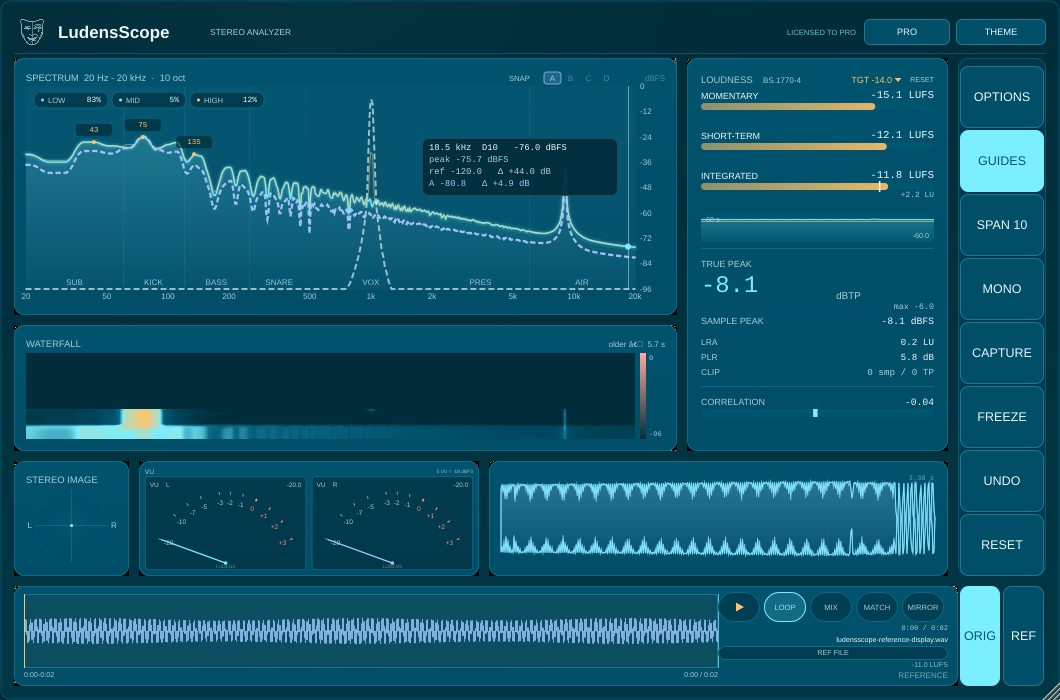
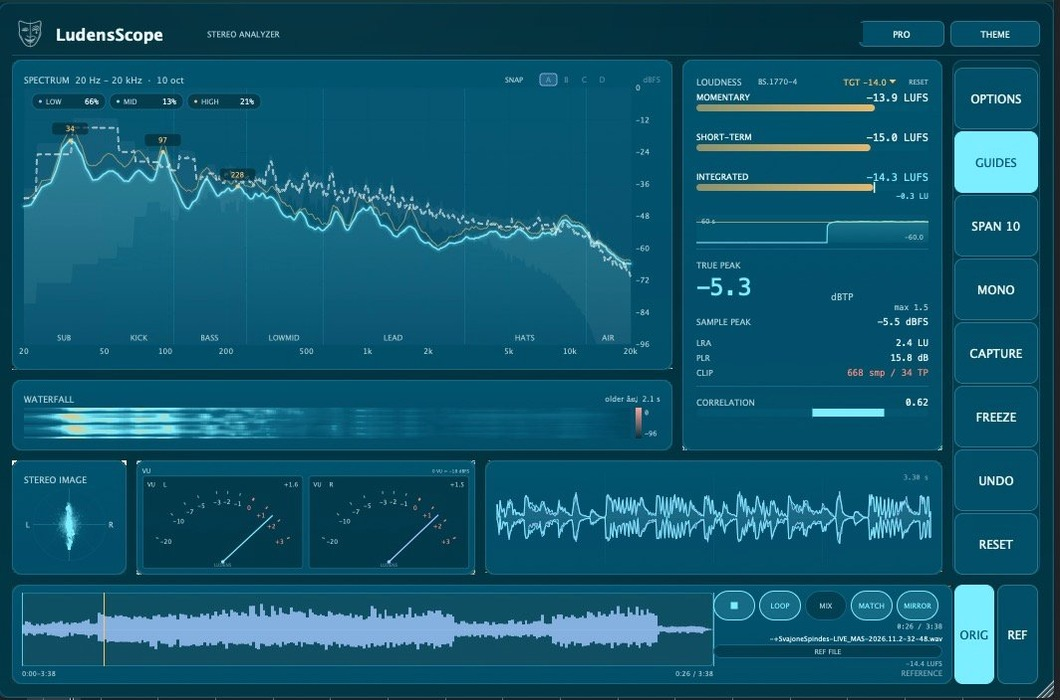
site: add Google Search Console verification file

Changed region(s): [[0.0, 0.0, 1.0, 1.0], [0.7783, 0.42, 0.8094, 0.45], [0.3425, 0.69, 0.3736, 0.72]]

diff --git a/site/index.html b/site/index.html
@@ -7,32 +7,13 @@
   <meta property="og:title" content="LudensScope — увидеть то, что слышишь">
   <meta property="og:description" content="Бесплатный Lite, PRO 19 € (было 29 €): спектр, BS.1770, референс A–D, gain staging и VU.">
   <meta property="og:type" content="website">
-  <meta property="og:image" content="https://ludensscope.pages.dev/assets/og-ru.png">
-  <meta property="og:image:width" content="1200">
-  <meta property="og:image:height" content="630">
+  <meta property="og:image" content="https://ludensscope.pages.dev/assets/ui-preview.jpg">
   <meta property="og:url" content="https://ludensscope.pages.dev/">
   <meta property="og:site_name" content="LudensScope">
   <meta property="og:locale" content="ru_RU">
   <meta property="og:locale:alternate" content="en_US">
   <meta name="twitter:card" content="summary_large_image">
-  <meta name="twitter:image" content="https://ludensscope.pages.dev/assets/og-ru.png">
   <meta name="theme-color" content="#01141b">
-<script type="application/ld+json">
-{
-  "@context": "https://schema.org",
-  "@type": "SoftwareApplication",
-  "name": "LudensScope",
-  "description": "Стерео-анализатор VST3, AU, CLAP и AAX: спектр, громкость BS.1770, референс A–D, gain staging и стрелочный VU. Lite бесплатно, PRO за 19 €.",
-  "applicationCategory": "MultimediaApplication",
-  "operatingSystem": "Windows, macOS, Linux",
-  "softwareVersion": "1.0.11",
-  "url": "https://ludensscope.pages.dev/",
-  "offers": [
-    { "@type": "Offer", "name": "Lite", "price": "0", "priceCurrency": "EUR", "availability": "https://schema.org/InStock" },
-    { "@type": "Offer", "name": "PRO", "price": "19", "priceCurrency": "EUR", "url": "https://www.paypal.com/ncp/payment/9LQYYZMR7TW7G", "availability": "https://schema.org/InStock" }
-  ]
-}
-</script>
   <link rel="canonical" href="https://ludensscope.pages.dev/">
   <link rel="icon" type="image/png" href="assets/logo.png">
   <link rel="stylesheet" href="styles.css">
@@ -42,7 +23,7 @@
 <link rel="alternate" hreflang="x-default" href="https://ludensscope.pages.dev/">
 </head>
 <body>
-<a class="skip" href="#main">Перейти к содержимому</a>
+<a class="skip" href="#main">Skip to content</a>
 
 <header class="site-header" id="header">
   <div class="wrap header-inner">
@@ -51,7 +32,7 @@
       <span>LudensScope</span>
     </a>
 
-    <nav class="nav" id="nav" aria-label="Основная навигация">
+    <nav class="nav" id="nav" aria-label="Main">
       <a href="#features">Возможности</a>
       <a href="#reference">Референс</a>
       <a href="#gain">Gain staging</a>
@@ -68,7 +49,7 @@
       </a>
       <a class="btn btn-ghost header-cta" href="#download">Скачать Lite</a>
       <a class="btn btn-primary header-cta" href="#pro">PRO — 19 €</a>
-      <button class="menu" id="menu-toggle" type="button" aria-label="Меню" aria-expanded="false" aria-controls="nav">
+      <button class="menu" id="menu-toggle" type="button" aria-label="Menu" aria-expanded="false" aria-controls="nav">
         <span></span><span></span><span></span>
       </button>
     </div>
@@ -95,10 +76,7 @@
             <span class="dot"></span><span class="dot"></span><span class="dot"></span>
             <em>LudensScope <span class="js-version">v1.0.11</span></em>
           </div>
-          <video autoplay muted loop playsinline preload="metadata" poster="assets/ui-preview.jpg" width="848" height="560" aria-label="Анимированный превью интерфейса LudensScope: смена семи тем">
-            <source src="assets/preview-themes.webm" type="video/webm">
-            <source src="assets/preview-themes.mp4" type="video/mp4">
-          </video>
+          <img src="assets/ui-preview.jpg" alt="LudensScope interface: spectrum, loudness, reference, VU meter and oscilloscope" width="1060" height="700">
         </div>
         <div class="glow" aria-hidden="true"></div>
       </div>
@@ -191,20 +169,20 @@
           <li>MIRROR / FREE</li>
         </ul>
       </div>
-      <div class="shot reveal"><img src="assets/spectrum.png" alt="Спектр LudensScope: полосы LOW/MID/HIGH, шкала dBFS и подписи частот" width="660" height="311"></div>
+      <div class="shot reveal"><img src="assets/spectrum.png" alt="Спектр LudensScope: полосы LOW/MID/HIGH, шкала dBFS и подписи частот" ></div>
     </div>
   </section>
 
   <section class="section split reverse" id="gain">
     <div class="wrap split-grid">
-      <div class="shot vu reveal"><img src="assets/vu.png" alt="Стерео VU-метр LudensScope с указателями L и R" width="350" height="145"></div>
+      <div class="shot vu reveal"><img src="assets/vu.png" alt="Стерео VU-метр LudensScope с указателями L и R" ></div>
       <div class="split-copy">
         <p class="eyebrow reveal">Gain staging</p>
         <h2 class="reveal">Выставьте уровень до микса.</h2>
         <p class="section-lead reveal">Опорные линии в спектре и осциллографе, 0 VU на −18 dBFS (EBU) или −20 dBFS (SMPTE) и стрелочный VU со шкалой −20…+3.</p>
         <ul class="ticks reveal">
           <li>0 VU = +4 dBu = 1.228 В RMS</li>
-          <li>Баллистика ~500 мс, сглаживание 40/80/150 мс (по умолчанию 80 мс)</li>
+          <li>Баллистика ~500 мс, сглаживание 40/80/150 мс</li>
           <li>Шкала −20…+3 VU</li>
         </ul>
       </div>
@@ -273,9 +251,9 @@
   <div class="wrap footer-inner">
     <div class="footer-brand">
       <a class="brand" href="#top"><img src="assets/logo.png" alt="" width="26" height="26"><span>LudensScope</span></a>
-      <p>Сделано на JUCE. VST3, AU, CLAP и AAX. Lite бесплатно, PRO 19 €. Без телеметрии.</p>
+      <p>Сделано на JUCE. VST3 и AU. Lite бесплатно, PRO 19 €. Без телеметрии.</p>
     </div>
-    <nav class="footer-nav" aria-label="Ссылки">
+    <nav class="footer-nav" aria-label="Links">
       <a href="https://github.com/ltillegal/ludensscope" target="_blank" rel="noopener">GitHub</a>
       <a href="https://github.com/ltillegal/ludensscope/releases" target="_blank" rel="noopener">Релизы</a>
       <a href="https://komistore.app/" target="_blank" rel="noopener">Komi Store</a>

diff --git a/site/en/index.html b/site/en/index.html
@@ -5,34 +5,15 @@
   <title>LudensScope — stereo analyser. Free Lite, PRO €19</title>
   <meta name="description" content="A free stereo analyzer for VST3 and AU: spectrum, BS.1770 loudness, four reference slots, gain staging and a standard VU meter.">
   <meta property="og:title" content="LudensScope — see what you hear">
-  <meta property="og:description" content="A free stereo analyzer for VST3 and AU: spectrum, BS.1770 loudness, four reference slots, gain staging and VU. Free Lite, PRO €19 (was €29).">
+  <meta property="og:description" content="A free stereo analyzer for VST3 and AU. Spectrum, loudness, reference, gain staging and VU.">
   <meta property="og:type" content="website">
-  <meta property="og:image" content="https://ludensscope.pages.dev/assets/og-en.png">
-  <meta property="og:image:width" content="1200">
-  <meta property="og:image:height" content="630">
+  <meta property="og:image" content="https://ludensscope.pages.dev/assets/ui-preview.jpg">
   <meta property="og:url" content="https://ludensscope.pages.dev/en/">
   <meta property="og:site_name" content="LudensScope">
   <meta property="og:locale" content="en_US">
   <meta property="og:locale:alternate" content="ru_RU">
   <meta name="twitter:card" content="summary_large_image">
-  <meta name="twitter:image" content="https://ludensscope.pages.dev/assets/og-en.png">
   <meta name="theme-color" content="#01141b">
-<script type="application/ld+json">
-{
-  "@context": "https://schema.org",
-  "@type": "SoftwareApplication",
-  "name": "LudensScope",
-  "description": "Stereo analyser for VST3, AU, CLAP and AAX: spectrum, BS.1770 loudness, four reference slots, gain staging and a needle VU meter. Free Lite, PRO €19.",
-  "applicationCategory": "MultimediaApplication",
-  "operatingSystem": "Windows, macOS, Linux",
-  "softwareVersion": "1.0.11",
-  "url": "https://ludensscope.pages.dev/en/",
-  "offers": [
-    { "@type": "Offer", "name": "Lite", "price": "0", "priceCurrency": "EUR", "availability": "https://schema.org/InStock" },
-    { "@type": "Offer", "name": "PRO", "price": "19", "priceCurrency": "EUR", "url": "https://www.paypal.com/ncp/payment/9LQYYZMR7TW7G", "availability": "https://schema.org/InStock" }
-  ]
-}
-</script>
   <link rel="canonical" href="https://ludensscope.pages.dev/en/">
   <link rel="icon" type="image/png" href="../assets/logo.png">
   <link rel="stylesheet" href="../styles.css">
@@ -95,10 +76,7 @@
             <span class="dot"></span><span class="dot"></span><span class="dot"></span>
             <em>LudensScope <span class="js-version">v1.0.11</span></em>
           </div>
-          <video autoplay muted loop playsinline preload="metadata" poster="../assets/ui-preview.jpg" width="848" height="560" aria-label="Animated preview of the LudensScope interface cycling through seven themes">
-            <source src="../assets/preview-themes.webm" type="video/webm">
-            <source src="../assets/preview-themes.mp4" type="video/mp4">
-          </video>
+          <img src="../assets/ui-preview.jpg" alt="LudensScope interface: spectrum, loudness, reference, VU meter and oscilloscope" width="1060" height="700">
         </div>
         <div class="glow" aria-hidden="true"></div>
       </div>
@@ -189,20 +167,20 @@
           <li>MIRROR / FREE transport modes</li>
         </ul>
       </div>
-      <div class="shot reveal"><img src="../assets/spectrum.png" alt="LudensScope spectrum: LOW/MID/HIGH bands, dBFS scale and frequency labels" width="660" height="311"></div>
+      <div class="shot reveal"><img src="../assets/spectrum.png" alt="LudensScope spectrum: LOW/MID/HIGH bands, dBFS scale and frequency labels" ></div>
     </div>
   </section>
 
   <section class="section split reverse" id="gain">
     <div class="wrap split-grid">
-      <div class="shot vu reveal"><img src="../assets/vu.png" alt="LudensScope stereo VU meter with L and R needles" width="350" height="145"></div>
+      <div class="shot vu reveal"><img src="../assets/vu.png" alt="LudensScope stereo VU meter with L and R needles" ></div>
       <div class="split-copy">
         <p class="eyebrow reveal">Gain staging</p>
         <h2 class="reveal">Set the level before you mix.</h2>
         <p class="section-lead reveal">Reference lines in the spectrum and oscilloscope, 0 VU at −18 dBFS (EBU) or −20 dBFS (SMPTE), and a needle VU with a −20…+3 scale.</p>
         <ul class="ticks reveal">
           <li>0 VU = +4 dBu = 1.228 V RMS</li>
-          <li>~500 ms ballistics, 40/80/150 ms smoothing (80 ms by default)</li>
+          <li>~500 ms ballistics, 40/80/150 ms smoothing</li>
           <li>−20…+3 VU scale</li>
         </ul>
       </div>
@@ -271,7 +249,7 @@
   <div class="wrap footer-inner">
     <div class="footer-brand">
       <a class="brand" href="#top"><img src="../assets/logo.png" alt="" width="26" height="26"><span>LudensScope</span></a>
-      <p>Made with JUCE. VST3, AU, CLAP &amp; AAX. Lite free, PRO €19. No telemetry.</p>
+      <p>Made with JUCE. VST3 &amp; AU. Lite free, PRO €19. No telemetry.</p>
     </div>
     <nav class="footer-nav" aria-label="Links">
       <a href="https://github.com/ltillegal/ludensscope" target="_blank" rel="noopener">GitHub</a>

diff --git a/site/styles.css b/site/styles.css
@@ -337,7 +337,7 @@ h2 {
   letter-spacing: 0.06em;
   color: var(--mute);
 }
-.window img, .window video { display: block; width: 100%; height: auto; }
+.window img { display: block; width: 100%; height: auto; }
 
 .glow {
   position: absolute;

diff --git a/site/googlea588afcf48d8016e.html b/site/googlea588afcf48d8016e.html
@@ -1,0 +1,1 @@
+google-site-verification: googlea588afcf48d8016e.html
